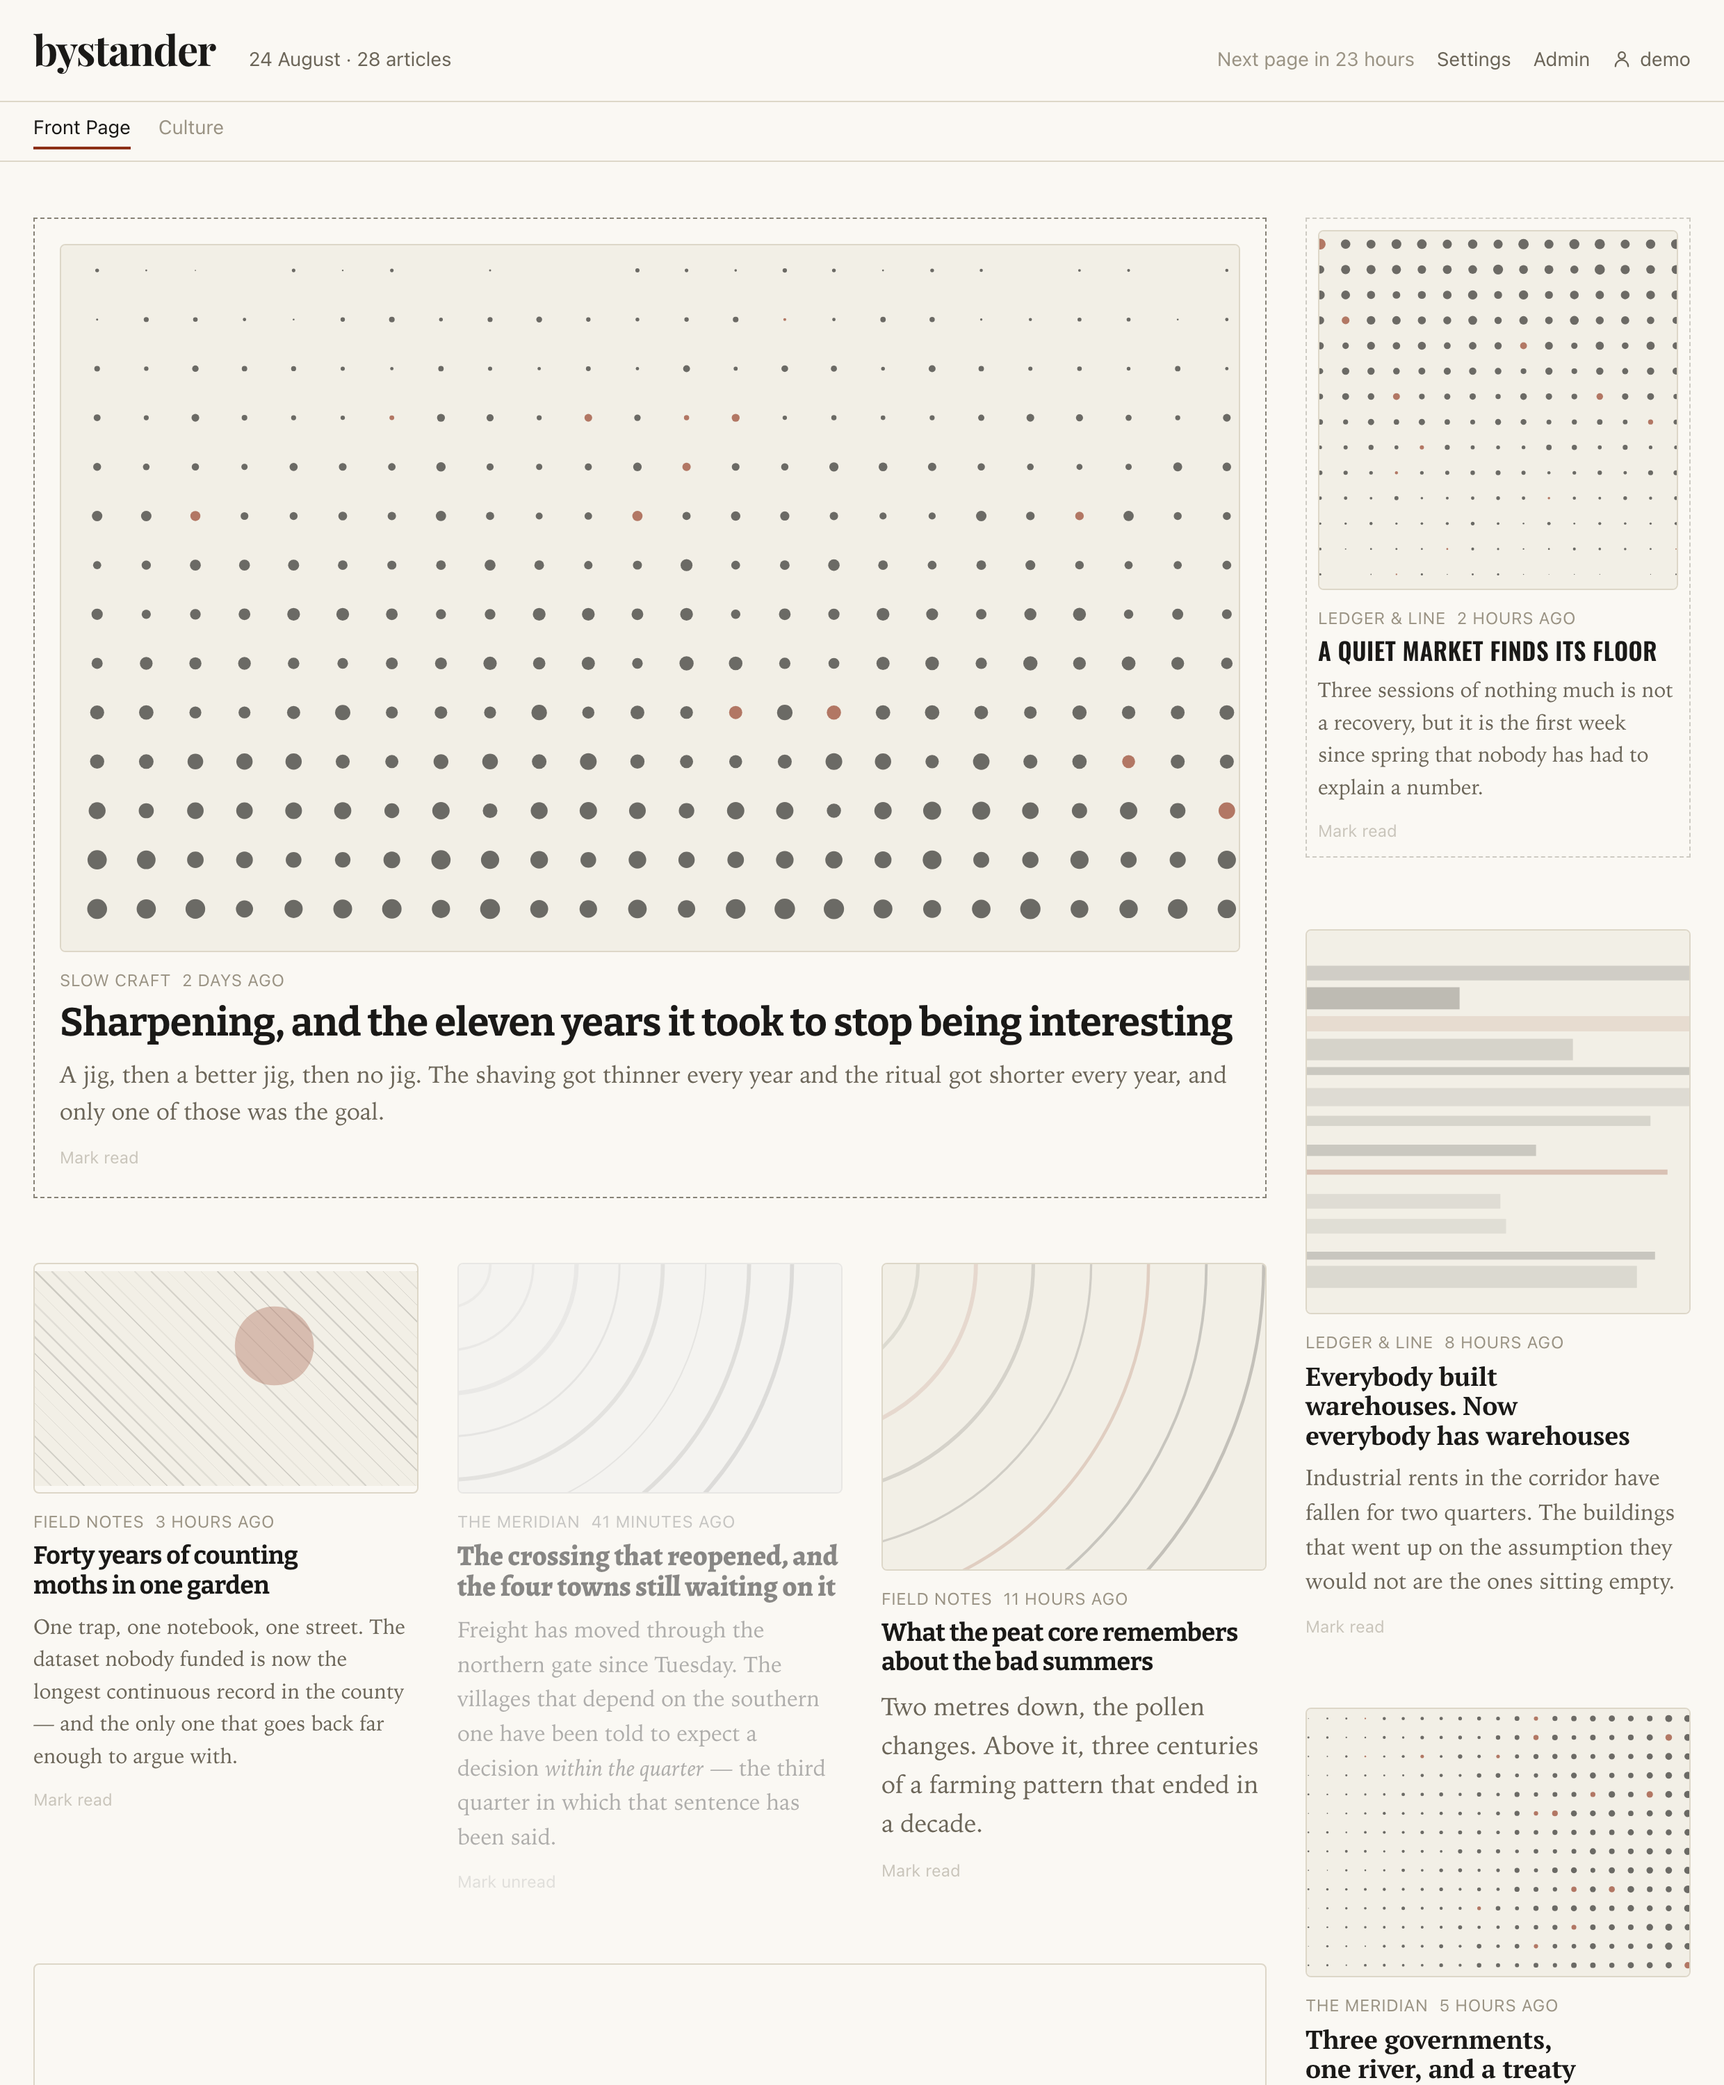
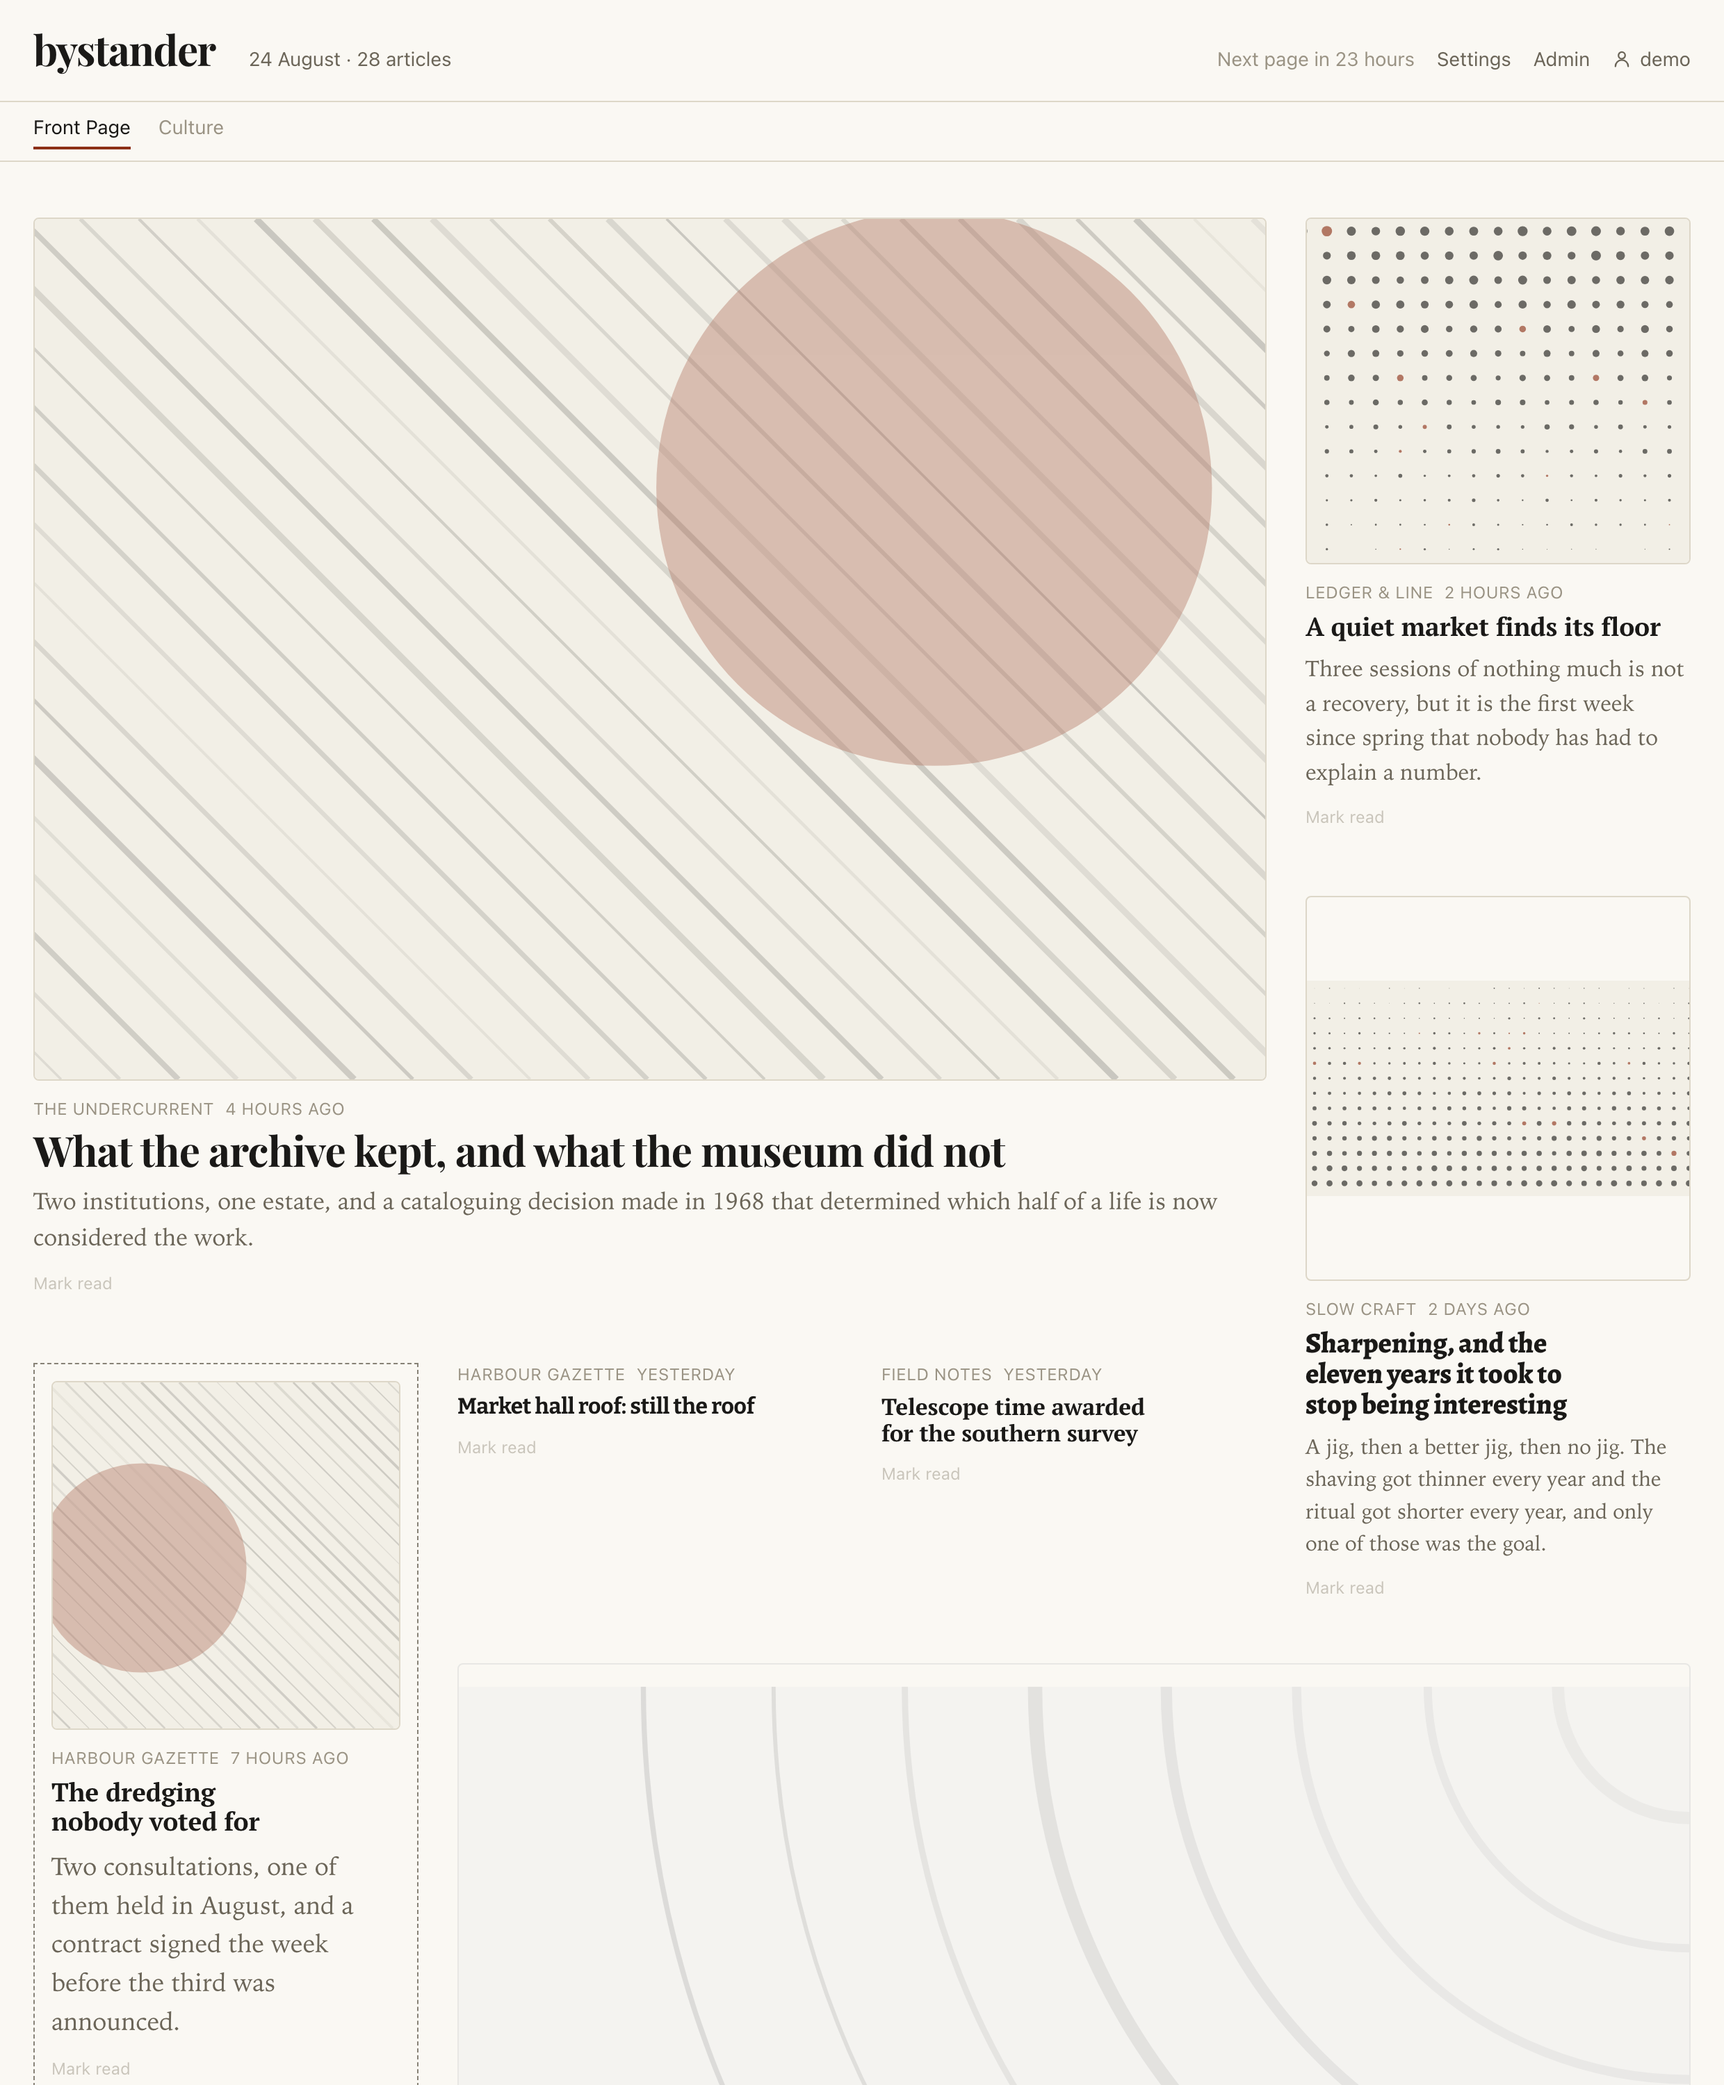
Keep the picture-beside-the-story layout off cards too narrow for it

diff --git a/web/src/apps/reader/ArticleCard.tsx b/web/src/apps/reader/ArticleCard.tsx
@@ -64,12 +64,22 @@ export function ArticleCard({
 
   // The picture beside the story rather than above it.
   //
-  // Only on boxed cards, and only where there is an edge for it to sit against — a picture
-  // half the width of a card needs the frame, or it reads as one that failed to be full width.
-  // Never the lead: that one runs the width of the page and its picture is the page's opening
-  // image, which is a different job from illustrating a column.
+  // Boxed cards only: a picture two fifths the width of a card needs an edge to sit against, or
+  // it reads as one that failed to be full width. The frame is that edge.
+  //
+  // And only on the widths that have room for it, which was measured rather than assumed. On a
+  // quarter-page card — 277px on a 1240px page — two fifths is a 96px picture, and no minimum
+  // height rescues that: making it taller only crops a landscape photograph into a vertical
+  // sliver. A half-page card gives the picture 228px and the story 320px, which is a picture
+  // and a story rather than a thumbnail and a caption.
+  //
+  // Never the lead either. That one runs the width of the page and its picture opens the page,
+  // which is a different job from illustrating a column.
   const aside =
-    showImage && frame !== null && style.aside && article.slot !== "lead";
+    showImage &&
+    frame !== null &&
+    style.aside &&
+    (article.slot === "feature" || article.slot === "wide");
 
   // A picture beside the story has taken the width the columns would have been set in, so the
   // body is a single column whatever it drew. Two things competing for one measure is how a
@@ -114,7 +124,10 @@ export function ArticleCard({
             // The fit still varies on pictures nothing has measured, where the box is a
             // guess and showing one whole is as good an answer as cropping it.
             className={`w-full rounded-sm border border-rule ${aside ? "" : "mb-3"} ${
-              !measured && style.fit === "contain"
+              // Never fitted beside a story. The box there has a floor under its height, so it
+              // is a crop rather than the picture's own shape — and `contain` would answer that
+              // by letterboxing the picture inside white bars it did not ask for.
+              !aside && !measured && style.fit === "contain"
                 ? "object-contain"
                 : "object-cover"
             } ${

diff --git a/web/src/styles.css b/web/src/styles.css
@@ -616,6 +616,38 @@ body {
   .card-aside > a:first-child {
     flex: 0 0 40%;
   }
+
+  /*
+   * A floor under a picture set beside a story.
+   *
+   * Stacked, a picture is the width of the card and its height follows from its own shape. Set
+   * beside a story it is two fifths of that, so the same picture comes out at two fifths of the
+   * height — which is fine for anything near square and not for a panorama. A 21:9 banner two
+   * fifths of a half-page card is ninety pixels tall against three hundred of story beside it,
+   * and reads as a rule with a picture in it.
+   *
+   * So the ratio is a preference here rather than a rule: the picture keeps its own shape until
+   * that would make it shorter than this, and is cropped to this instead. Nine rem is about
+   * four lines of the standfirst beside it, which is where a picture stops being an
+   * illustration and starts being an icon.
+   *
+   * A floor is all this can do. It does not rescue a picture that is too *narrow* — cropping a
+   * landscape photograph taller only makes a sliver of it — which is why the cards too narrow
+   * to carry one do not use this layout at all. See ArticleCard.
+   */
+  .card-aside > a:first-child img {
+    min-height: 9rem;
+  }
+
+  /*
+   * Below the collapse the picture is full width again, so it has its own shape back and needs
+   * no floor — and forcing one there would crop a picture that had all the room it wanted.
+   */
+  @media (max-width: 560px) {
+    .card-aside > a:first-child img {
+      min-height: 0;
+    }
+  }
   /*
    * Back to a stack once a card is narrow enough that two fifths of it is a thumbnail.
    *

diff --git a/web/src/apps/reader/ArticleCard.test.tsx b/web/src/apps/reader/ArticleCard.test.tsx
@@ -164,16 +164,29 @@ describe("ArticleCard layout", () => {
   // A picture beside the story needs an edge to sit against, or it reads as one that failed
   // to be full width. The frame is that edge.
   it("sets a picture beside the story only on a boxed card", () => {
-    render1(plain({ frame: boxed, aside: true }));
+    render1(plain({ frame: boxed, aside: true }), "feature");
     expect(document.querySelector("article")!.className).toContain(
       "card-aside",
     );
 
     document.body.innerHTML = "";
-    render1(plain({ frame: null, aside: true }));
+    render1(plain({ frame: null, aside: true }), "feature");
     expect(document.querySelector("article")!.className).not.toContain(
       "card-aside",
     );
+  });
+
+  // Measured, not guessed: on a quarter-page card two fifths is a 96px picture, and no
+  // minimum height rescues that — cropping a landscape photograph taller only makes a sliver
+  // of it. A card that narrow has no room for a picture beside a story.
+  it("never sets a picture beside a story on a card too narrow to hold one", () => {
+    for (const slot of ["standard", "brief"] as const) {
+      document.body.innerHTML = "";
+      render1(plain({ frame: boxed, aside: true }), slot);
+      expect(document.querySelector("article")!.className).not.toContain(
+        "card-aside",
+      );
+    }
   });
 
   // The lead runs the width of the page and its picture opens the page. That is a different
